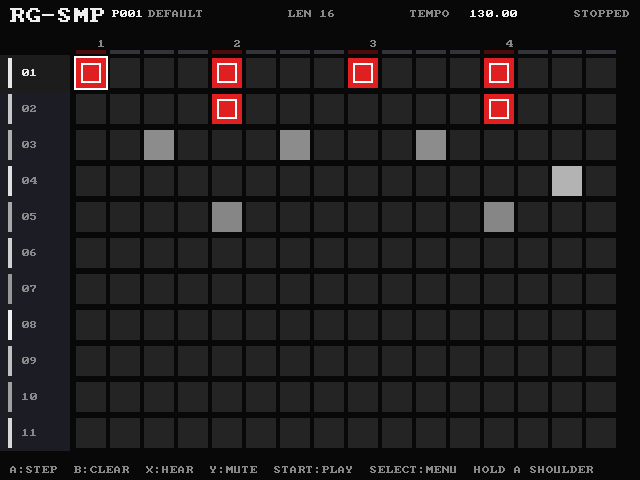
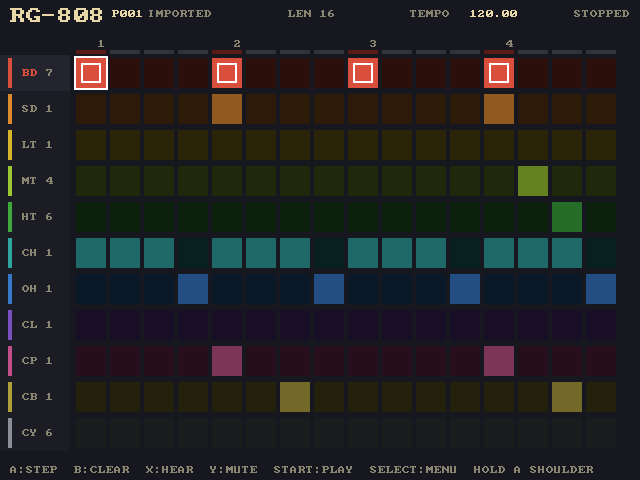
RG-SMP 1.1: release docs, port.json/gameinfo, screenshot, package
Version 1.1 (2026-11-27): USB-MIDI input (clock/transport sync, song mode
follows the master), per-track pitch with time stretch, pattern-wide sample
start/end cuts, tempo kept across a sync, synced delay bypassed under the
clock. PLAN/CORE updated, screenshot regenerated, dist/rgsmp.zip rebuilt.

diff --git a/README.md b/README.md
@@ -6,14 +6,17 @@
 
 ![FX](screenshots/fx.png)
 
-**Version 1.0** Ã¢â‚¬â€ first stable release (2026-11-15). RG-SMP and RG-808 both
+**Version 1.1** (2026-11-27). New in 1.1: USB-MIDI input (clock and transport sync, song mode follows the master), per-track pitch with time stretch, and pattern-wide sample start/end cuts. RG-SMP and RG-808 both ship as 1.1, validated on a physical RG35XX SP. RG-SMP and RG-808 both
 ship as 1.0, validated on a physical RG35XX SP.
 
 A 1-16-step, 11-track sample drum machine written in C with SDL2, packaged as a
 PortMaster "ready-to-run" port. It has a recursive WAV sample browser, one
 sample per track, per-step accents, sample-accurate sequencing, a 200-slot
 pattern library, song chains with WAV export, a per-pattern master effects
-chain, per-track mute and held R1 punch-in FX.
+chain, per-track mute and held R1 punch-in FX. 1.1 adds per-track pitch with
+time stretch, pattern-wide sample start/end cuts and USB-MIDI input: the
+device syncs to an external sequencer's MIDI clock and transport - including
+song mode, which plays the chain on the master's START.
 
 This is the sampler branch of the project. It shares the sequencer/pattern/
 song/effects/performance stack with the earlier 808 work but uses a different
@@ -71,6 +74,8 @@ rg808.exe --test-sampler                           # sample bank/browser/persist
 rg808.exe --test-mute                              # performance-mute checks
 rg808.exe --test-pitch                             # transpose DSP / cache / PIT lines
 rg808.exe --test-trim                              # slice math / TRM lines
+rg808.exe --test-midi                              # MIDI clock/transport engine
+rg808.exe --test-usbmidi                           # USB-MIDI input parsing
 rg808.exe --test-punch                             # punch-in FX checks
 rg808.exe --test-shortcuts                         # shoulder map
 rg808.exe --test-length                            # pattern-length checks
@@ -138,7 +143,7 @@ hint. The assigned combinations are:
 | L1 + Up | Pattern length |
 | L1 + Down | Ratchet notes |
 | L1 + X | Pitch / transpose the selected track |
-| L1 + B | Sample start/end (slice) for the selected step |
+| L1 + B | Sample start/end (slice) for the whole track |
 | L2 + Left | Pattern library |
 | L2 + Right | Song mode |
 | L2 + Up | Sample browser |
@@ -162,14 +167,26 @@ pattern (`PIT` lines), so every song bar can transpose on its own, and the
 sequencer row shows it next to the track label (`+7`). Rendering a long sample
 takes a moment; the transport keeps running while it happens.
 
-**Slice**: L1+B opens the sample start/end page for the selected step. Each of
-the 16 steps can play its own slice of the track's sample, in hundredths of a
-percent (`START 5.64`, `END 98.74`). Left/right picks the step, up/down nudges
-the highlighted value (0.01 % per tap, coarser while held), A swaps START and
-END, X auditions the slice, B returns. The waveform shows the whole sample with
-the slice lit and both edges marked, and the row of step cells shows which
-steps are cut. Slices are stored with the pattern (`TRM` lines) and the sequencer
-plays the cut, with a 2 ms fade at each cut edge so it never clicks.
+**Slice**: L1+B opens the sample start/end page for the selected track. One cut
+per track - every step of the pattern plays it - in hundredths of a percent
+(`START 5.64`, `END 98.74`). Left/right or A switches between START and END,
+up/down nudges the highlighted value (0.01 % per tap, coarser while held), X
+auditions the slice, B returns. The waveform shows the whole sample with the
+slice lit and both edges marked. The cut is stored with the pattern (`TRM
+<track> <start> <end>`) and playback applies a 2 ms fade at each cut edge so it
+never clicks. Older per-step `TRM` lines still load and migrate to the first
+cut they contain.
+
+**USB-MIDI in** (1.1): plug a USB-MIDI master into the Type-C port and the
+machine syncs to it - MIDI clock drives the tempo, START/STOP/CONTINUE drive
+the transport, and SPP positions the song. On the song page the armed chain
+plays on the master's START instead of the pattern: a looping song repeats
+until STOP, a non-looping one ends in standby and re-arms for the next START.
+Your own tempo is restored when the device disconnects, and a tempo-synced
+delay is bypassed while the clock drives us (its time would wobble with the
+lock). The header shows a red `MIDI` chip while synced. The RG35XX SP acts as
+a USB host automatically (verified with a Roland T-8); the device must be
+plugged in while the app runs so the reader can claim it.
 
 **Sample browser**: menu -> SAMPLE BROWSER or L2+Up. D-pad scrolls, left/right
 pages, A enters a directory or assigns/auditions a WAV to the current track,
@@ -228,11 +245,12 @@ is never overwritten. L2+Down opens the same export after a confirmation page.
 ## Pattern format
 
 Patterns are plain text: `RGSMP1`, `BPM`, `SMP <track> <relative/path.wav>`,
-`PIT <track> <semitones>` for transposed tracks, `TRM <track> <16 start>
-<16 end>` for sliced steps (0.01 % units), 16-character level rows,
-`RCH`, `SWING`, `LEN` and the FX lines. Slots are atomic writes (temp + fsync +
-rename). Paths are relative to `assets/wav`; files that are missing at startup
-are shown with `!` and stay silent.
+`PIT <track> <semitones>` for transposed tracks, `TRM <track> <start> <end>`
+for a cut track (0.01 % units, one cut per track; legacy per-step lines are
+migrated), 16-character level rows, `RCH`, `SWING`, `LEN` and the FX lines.
+Slots are atomic writes (temp + fsync + rename). Paths are relative to
+`assets/wav`; files that are missing at startup are shown with `!` and stay
+silent.
 
 ## Credits & licences
 

diff --git a/port/README.md b/port/README.md
@@ -6,8 +6,10 @@ accents, sample-accurate timing, a 200-slot pattern library, 512-bar song
 chains with WAV export, a master effects chain, per-track mute and held R1
 punch-in FX. Written in C with SDL2; runs natively at 640x480.
 
-**RG-SMP 1.0** â€” first stable release (2026-11-15). RG-808 ships as 1.0 from
-the `master` branch.
+**RG-SMP 1.1** (2026-11-27). New in 1.1: USB-MIDI input (clock and transport
+sync, song mode follows the master), per-track pitch with time stretch and
+pattern-wide sample start/end cuts. **RG-SMP 1.0** was the first stable release
+(2026-11-15); RG-808 ships as 1.1 from the `master` branch.
 
 > **Disclaimer: this project was made with AI.** All of the source code, build
 > and packaging tooling, documentation and planning in this repository were
@@ -61,10 +63,12 @@ semitone, left/right a whole octave, A auditions, B returns; the range is
 put. The interval is saved with the pattern and shown next to the track label
 (+7); each song bar can transpose on its own.
 
-Slice: L1+B opens the start/end page for the selected step. Left/right picks
-the step, up/down nudges the value (hundredths of a percent, coarser while
-held), A swaps START/END, X auditions. Each of the 16 steps can play its own
-cut of the track's sample; the points are stored with the pattern (TRM lines).
+Slice: L1+B opens the start/end page for the selected track. One cut per track
+- every step of the pattern plays it. Left/right or A switches between START
+and END, up/down nudges the value (hundredths of a percent, coarser while
+held), X auditions. The points are stored with the pattern (`TRM <track>
+<start> <end>`); older per-step `TRM` lines still load and migrate to the
+first cut they contain.
 
 R1 punch-in FX: hold R1 and press Left/Right/Up/Down for 1/4, 1/8, 1/16 or
 1/32 stutter loops; A = 1/4 rewind, B = 1/16 gate, X = tape stop (one 1/8
@@ -79,6 +83,16 @@ it. Muted rows are tinted and marked with a red M. Mutes apply to live and song
 playback, cut ringing hits immediately, and are not saved with the pattern.
 They also apply to the WAV export: the export confirmation page lists the
 muted tracks, and Y toggles whether they are part of the export.
+
+USB-MIDI in (1.1): plug a USB-MIDI master into the Type-C port and the machine
+syncs to it - MIDI clock drives the tempo, START/STOP/CONTINUE drive the
+transport and SPP positions the song. On the song page the armed chain plays
+on the master's START instead of the pattern: a looping song repeats until
+STOP, a non-looping one ends in standby and re-arms for the next START. Your
+own tempo is restored when the device disconnects, and a tempo-synced delay is
+bypassed while the clock drives us. The header shows a red MIDI chip while
+synced. Verified with a Roland T-8; plug the master in while the app runs so
+the reader can claim it.
 
 Sample browser (menu -> SAMPLE BROWSER, or L2+Up): browse `assets/wav`
 recursively. Directories are entered with A; WAV files are assigned to the

diff --git a/PLAN.md b/PLAN.md
@@ -5,12 +5,24 @@
 > described in `SAMPLER.md` and `README.md`. `CORE_PLAN.md` and
 > `CLONES_PLAN.md` are not part of the sampler branch's current scope.
 
-**Current version: 1.0** (2026-11-15). M1–M11 are implemented (including the
-M12 shared-core split), both ARM cross-builds pass the automated suites, and
-RG-SMP/RG-808 1.0 were validated on a physical RG35XX SP.
+**Current version: 1.1** (2026-11-27). M1–M11 are implemented (including the
+M12 shared-core split) plus the v1.1 phases P0–P6; both ARM cross-builds pass
+the automated suites, and RG-SMP/RG-808 1.1 were validated on a physical
+RG35XX SP.
 
 Roland TR-808 clone for the Anbernic RG35XX SP (muOS / PortMaster).
 1–16-step sequencer, single pattern, 11 classic voices, per-step accents.
+
+## Release 1.1 (2026-11-27)
+
+RG-SMP and RG-808 ship together as version 1.1, validated on a physical
+RG35XX SP. The release adds the v1.1 phases: muted tracks honoured in WAV
+exports (P1), per-track pitch with time stretch (P2), sample start/end cuts
+(P3, made pattern-wide after device feedback), the MIDI engine and USB-MIDI
+device input (P4/P5 - clock/transport sync, song mode follows the master,
+tempo kept across a sync, synced delay bypassed under the clock), and the
+packaging/docs refresh (P6). Both machine packages ship the new binaries and
+screenshots; the core branch carries all shared changes.
 
 ## Release 1.0 (2026-11-15)
 
@@ -475,12 +487,17 @@ then merge into `master` (RG-808) and `sampler` (RG-SMP).
     Same app-side code, because the gadget also creates a local rawmidi node.
     Not needed: usbfs works on the stock kernel, the app claims the interface
     directly.
-- [ ] **P6 - Release 1.1**
-  - [ ] Docs (README / CORE / PLAN / SAMPLER), `port.json`, screenshots, both
-    machine packages, device smoke test.
+- [x] **P6 - Release 1.1**
+  - [x] Docs (README / CORE / PLAN / SAMPLER), `port.json`, screenshots, both
+    machine packages, device smoke test (hardware-confirmed by the owner:
+    MIDI sync, song mode, slice cuts and pitch all work "like clockwork").
 
-## Current state (as of 2026-11-15)
+## Current state (as of 2026-11-27)
 
+- **Version 1.1:** the v1.1 phases (P0–P6) are complete on `core` and merged
+  into `sampler` (RG-SMP) and `master` (RG-808); both ARM packages are built
+  and MIDI sync, song mode, slice cuts and pitch were validated on a physical
+  RG35XX SP by the owner.
 - **Version 1.0:** M1–M11 implemented, with the M12 shared-core split complete;
   PC and both ARM cross-builds pass the automated suites; controls, audio,
   effects CPU, punch-in FX and song export were validated on a physical RG35XX

diff --git a/CORE.md b/CORE.md
@@ -4,8 +4,9 @@ The `core` branch holds the sample-agnostic drum-machine core. Machine
 branches merge it and keep only their machine definition, app shell, assets and
 port packaging.
 
-**Release 1.0 (2026-11-15):** this shared core backs both RG-SMP 1.0 and
-RG-808 1.0.
+**Release 1.1 (2026-11-27):** this shared core backs RG-SMP 1.1 and RG-808 1.1
+(the 1.0 release from 2026-11-15 remains tagged). The 1.1 core adds the MIDI
+engine and USB-MIDI input, per-track pitch and pattern-wide slice cuts.
 
 ## Layout
 
